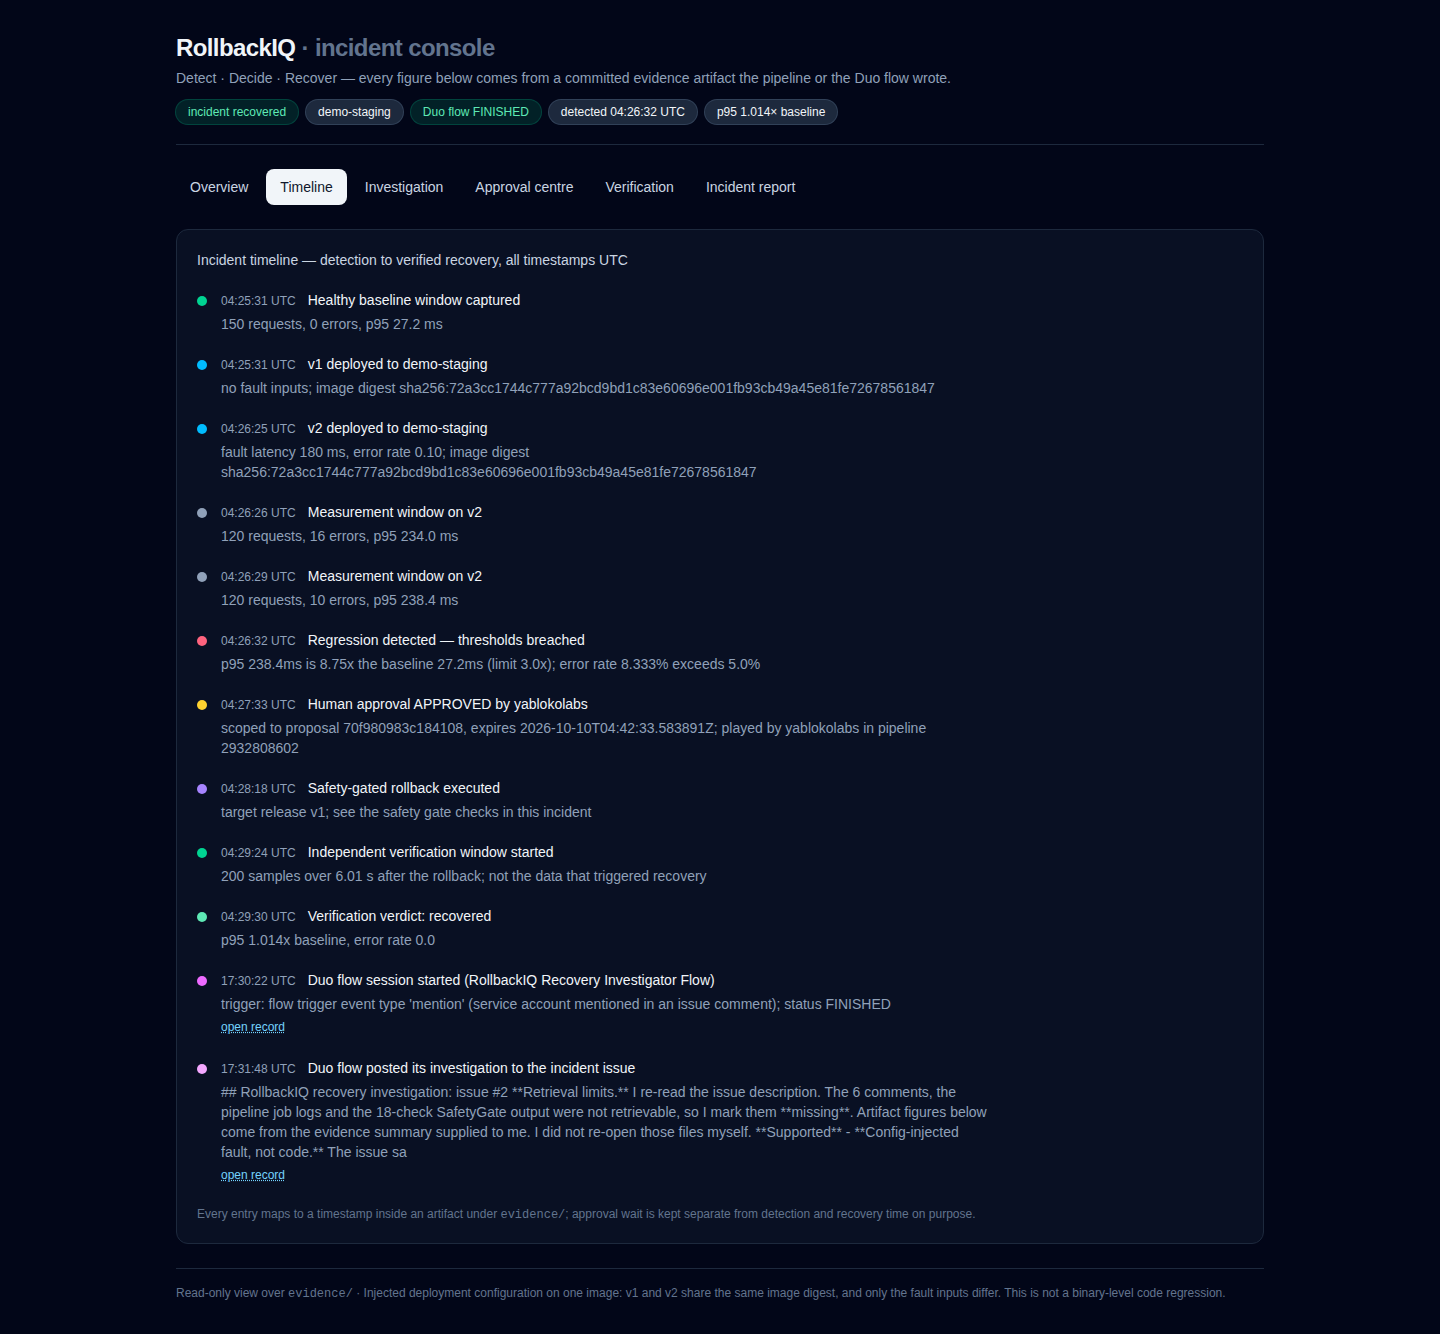
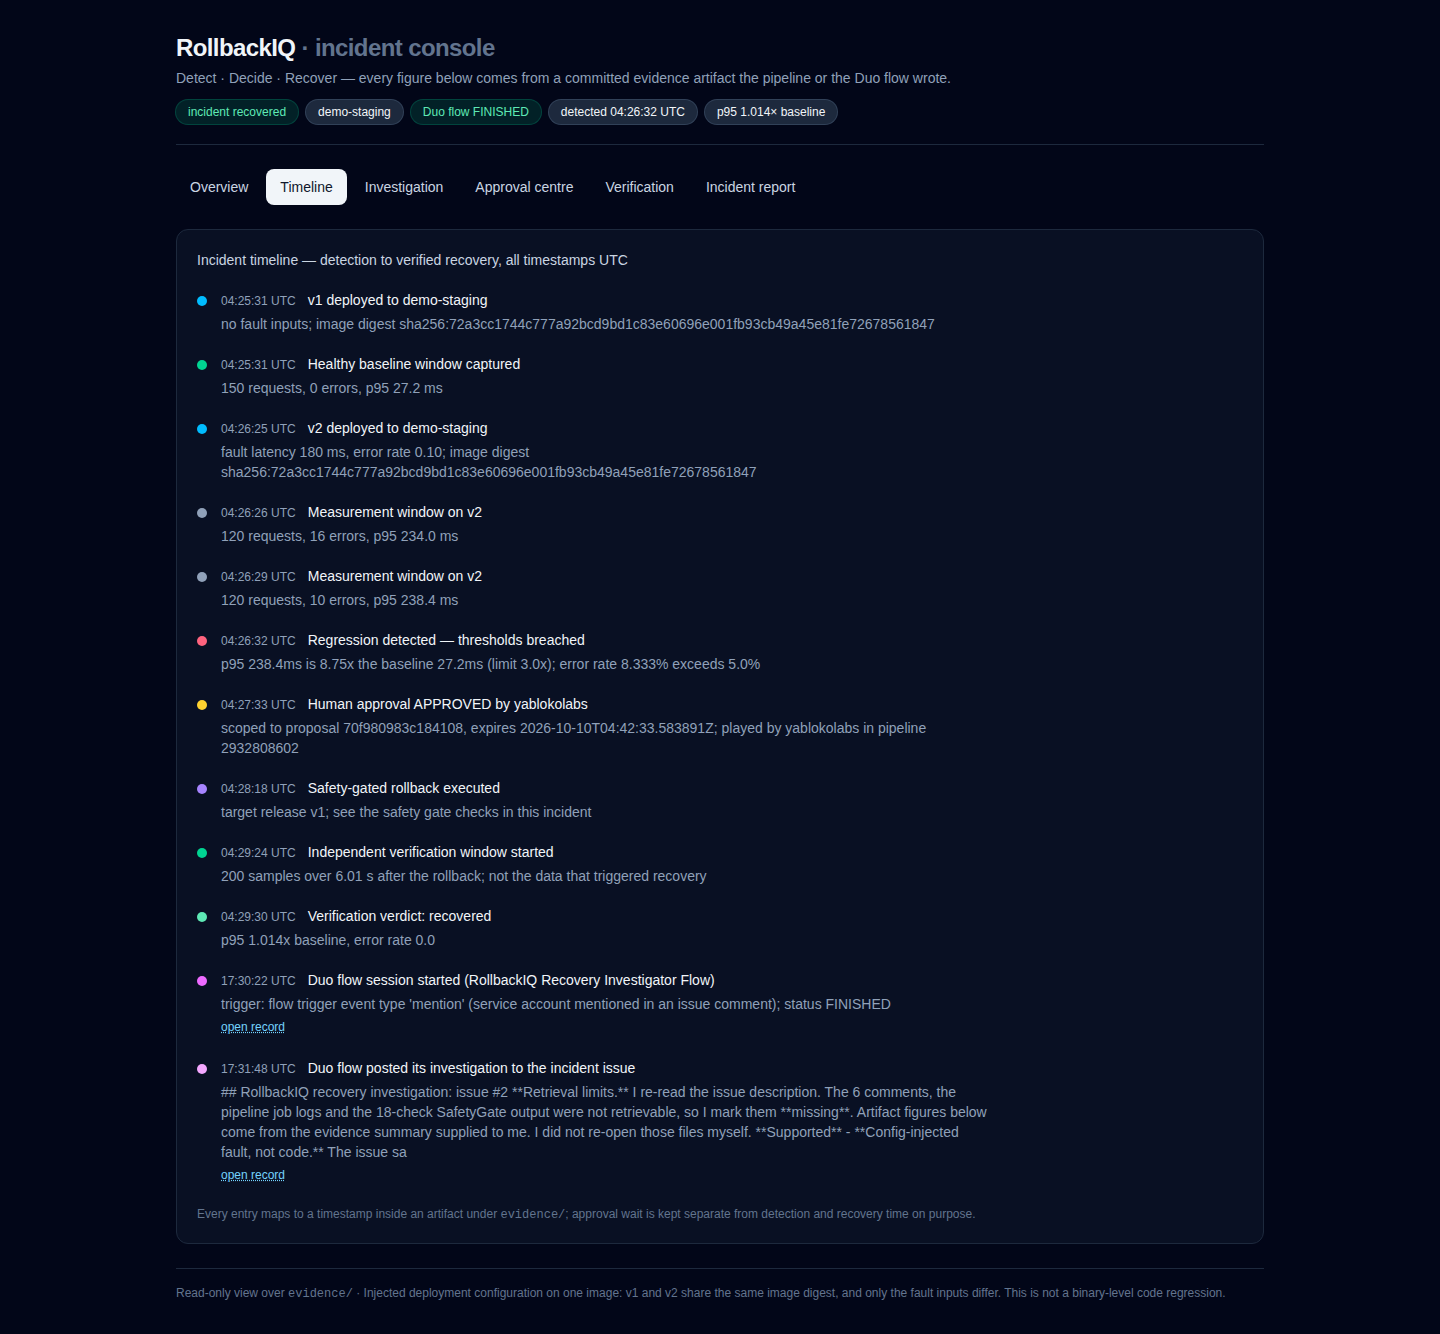
Order the incident timeline by time, and take the rollback target from the artifact
Two findings of the Duo code review on merge request 1 (session 9290081):

The timeline sorted raw timestamp strings, and the artifacts mix formats.
As text, '...:31.767894+00:00' sorts before '...:31Z', so the console listed
the baseline window before the deployment it was measured on. The order now
comes from the parsed moment. The old test compared the output with a string
sort of itself, so it could not see this.

The rollback event said 'target release v1' as fixed text. It now reads
decision.target_release from rollback-execution.json, and says so when the
artifact does not name a target.

Changed region(s): [[0.1562, 0.2151, 0.6562, 0.3073]]

diff --git a/backend/tests/test_incident_api.py b/backend/tests/test_incident_api.py
@@ -10,6 +10,7 @@ from __future__ import annotations
 
 import json
 import shutil
+from datetime import datetime
 
 from fastapi.testclient import TestClient
 
@@ -88,10 +89,14 @@ def test_honesty_fields_travel_with_the_document() -> None:
     assert "does not restore deleted data" in incident["code_rollback_note"]
 
 
+def _moment(stamp: str) -> datetime:
+    return datetime.fromisoformat(stamp.replace("Z", "+00:00"))
+
+
 def test_timeline_is_ordered_and_contains_the_duo_report() -> None:
     incident = client.get(f"/api/incidents/{INCIDENT_ID}").json()
-    stamps = [event["at"] for event in incident["timeline"]]
-    assert stamps == sorted(stamps)
+    moments = [_moment(event["at"]) for event in incident["timeline"]]
+    assert moments == sorted(moments)
     assert any(event["kind"] == "duo-report" for event in incident["timeline"])
     assert incident["duo"]["session_id"] == "9288744"
     assert incident["duo"]["report_note_id"] == "3990222263"
@@ -134,6 +139,33 @@ def test_instructions_inside_evidence_do_not_change_the_verdict(tmp_path, monkey
     assert incident["verification"]["recovered"] is False
     assert summary["status"] == "escalated"
     assert summary["recovered"] is False
+
+
+def test_timeline_puts_a_deployment_before_the_window_measured_on_it() -> None:
+    """The artifacts mix timestamp formats, and the order must follow time, not text."""
+    incident = client.get(f"/api/incidents/{INCIDENT_ID}").json()
+    kinds = [event["kind"] for event in incident["timeline"]]
+    assert kinds.index("deploy") < kinds.index("baseline")
+
+
+def test_timeline_names_the_rollback_target_from_the_artifact(tmp_path, monkeypatch) -> None:
+    from app.api import incident_api
+
+    evidence = tmp_path / "evidence"
+    shutil.copytree(incident_api.EVIDENCE_DIR, evidence)
+    lifecycle = evidence / "gitlab-ci-lifecycle-artifacts"
+    execution_path = lifecycle / "rollback-execution.json"
+    execution = json.loads(execution_path.read_text())
+    execution["decision"]["target_release"] = "v0-stable"
+    execution_path.write_text(json.dumps(execution))
+
+    monkeypatch.setattr(incident_api, "EVIDENCE_DIR", evidence)
+    monkeypatch.setattr(incident_api, "LIFECYCLE_DIR", lifecycle)
+    incident = TestClient(incident_api.create_app()).get(f"/api/incidents/{INCIDENT_ID}").json()
+
+    rollback = next(event for event in incident["timeline"] if event["kind"] == "rollback")
+    assert "v0-stable" in rollback["detail"]
+    assert "v1" not in rollback["detail"]
 
 
 def test_unknown_incident_is_a_404() -> None:

diff --git a/backend/app/api/incident_api.py b/backend/app/api/incident_api.py
@@ -240,6 +240,7 @@ def _build_timeline(
     detection: Optional[Detection],
     approval: Optional[Approval],
     executed_at: Optional[str],
+    rollback_target: Optional[str],
     verification: Optional[VerificationResult],
     duo: Optional[DuoSession],
 ) -> List[TimelineEvent]:
@@ -322,7 +323,11 @@ def _build_timeline(
                 at=executed_at,
                 kind="rollback",
                 title="Safety-gated rollback executed",
-                detail="target release v1; see the safety gate checks in this incident",
+                detail=(
+                    f"target release {rollback_target}; see the safety gate checks in this incident"
+                    if rollback_target
+                    else "the artifact does not name the target release; see the safety gate checks"
+                ),
             )
         )
 
@@ -381,7 +386,12 @@ def _build_timeline(
             )
         )
 
-    return sorted((e for e in events if e.at), key=lambda e: e.at)
+    # The artifacts mix timestamp formats ("...:31Z", "...:31.767894+00:00"), so the
+    # order comes from the parsed moment. As text, "Z" sorts after "." and "+".
+    return sorted(
+        (e for e in events if e.at),
+        key=lambda e: datetime.fromisoformat(e.at.replace("Z", "+00:00")),
+    )
 
 
 def _duo_session(missing: List[str]) -> Optional[DuoSession]:
@@ -550,6 +560,7 @@ def load_incident() -> Incident:
         detection=detection,
         approval=approval,
         executed_at=decision_data.get("executed_at"),
+        rollback_target=decision.get("target_release"),
         verification=verification,
         duo=duo,
     )
